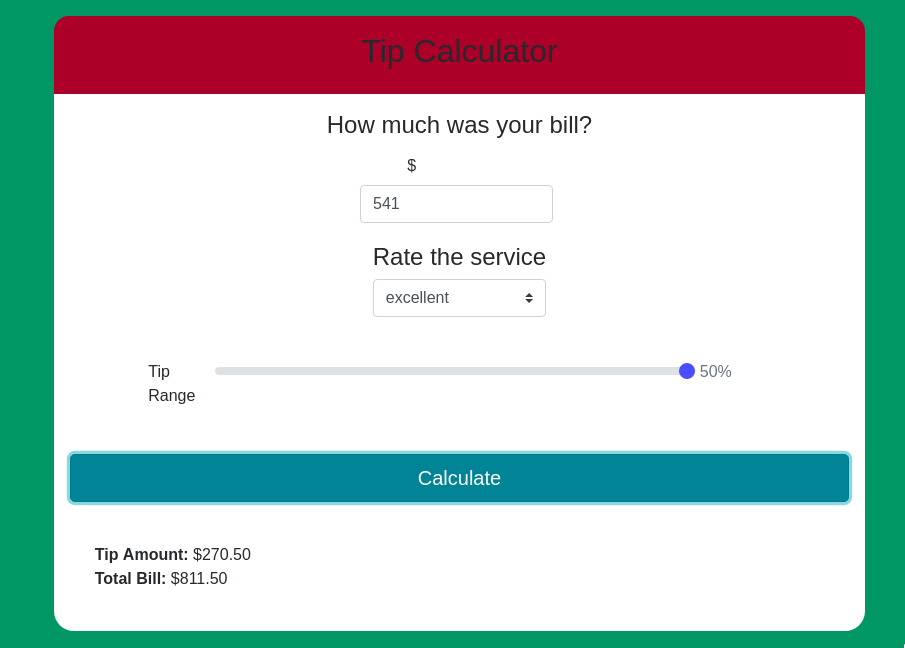
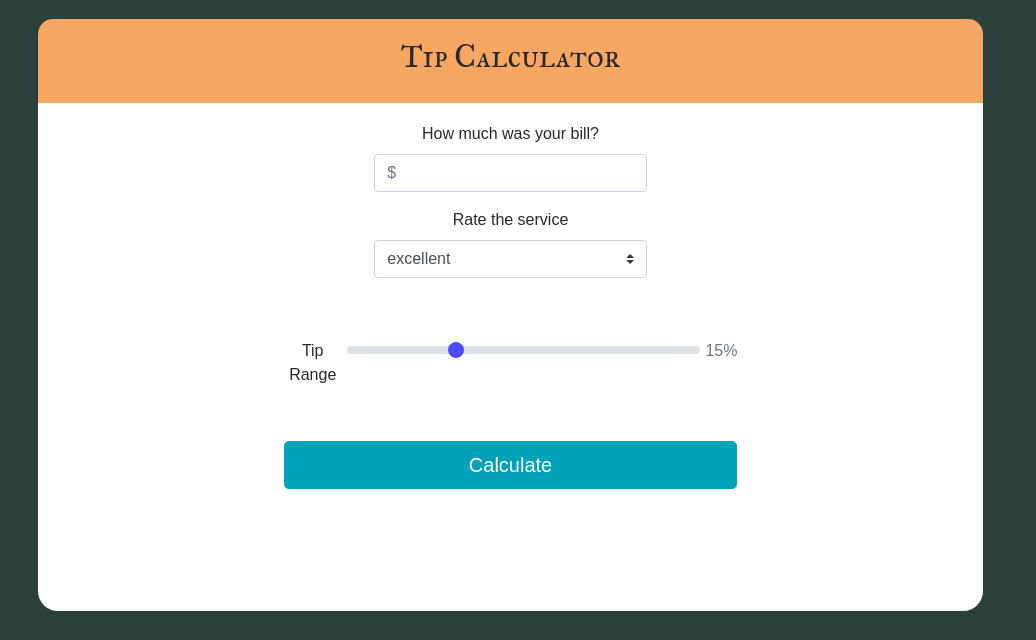
add responsiveness

diff --git a/index.html b/index.html
@@ -20,27 +20,20 @@
           </section>
           <section id="inputs">
                 <form>
-                    <div class="form-row row">
-                        <h4>How much was your bill?</h4>
-                    </div>
-                    <div class="form-group row">
-                        <label for="billAmount" class="col-sm-2 col-form-label">$</label>
-                        <div class="col-sm-10">
-                            <input type="number" class="form-control" placeholder="bill amount" id="billAmount" style="width:30%">
-                        </div>
+                    <div class="form-group col-auto">
+                        <label for="billAmount">How much was your bill?</label>
+                        <input type="number" class="form-control" placeholder="$" id="billAmount">
                     </div>
                 </form>
                 <form>
-                    <div class="form-row align-items-center">
-                        <div class="col-auto my-1">
-                            <h4>Rate the service</h4>
-                            <select class="custom-select mr-sm-2" id="rating">
-                                <option id="myOption" value="4">excellent</option>
-                                <option id="myOption" value="3">good</option>
-                                <option id="myOption" value="2">could be better</option>
-                                <option id="myOption" value="1">poor</option>
-                            </select>
-                        </div>
+                    <div class="form-group col-auto">
+                        <label for="rating">Rate the service</label>
+                        <select class="custom-select mr-sm-2" id="rating">
+                            <option id="myOption" value="4">excellent</option>
+                            <option id="myOption" value="3">good</option>
+                            <option id="myOption" value="2">could be better</option>
+                            <option id="myOption" value="1">poor</option>
+                        </select>
                     </div>
                 </form>
                 <form>
@@ -50,7 +43,9 @@
                     <span class="text-muted" id="percentOut">15%</span>
                 </div>
                 </form>
-                <button type="button" class="btn btn-info btn-lg btn-block" id="calculate">Calculate</button>
+                <div class="button">
+                    <button type="button" class="btn btn-info btn-lg" id="calculate">Calculate</button>
+                </div>
           </section>
           <section id="result">
             

diff --git a/index.css b/index.css
@@ -1,12 +1,13 @@
+@import url('https://fonts.googleapis.com/css?family=IM+Fell+Great+Primer+SC&display=swap');
 body{
     margin: 0;
     padding: 0;
     width: 100%;
-    background-color: rgb(35, 142, 101);
+    background-color: rgb(41, 61, 55);
 }
 .container{
-    margin: 2% 10% 10% 20%;
-    width: 60%;
+    margin: 2% 10% 10% 17%;
+    width: 70%;
     background-color: white;
     border-radius: 20px;
     padding: 0;
@@ -14,7 +15,8 @@ body{
 #heading{
     padding: 2%;
     border-radius: 15px 15px 0 0;
-    background-color: brown;
+    background-color: rgb(243, 168, 106);
+    font-family: 'IM Fell Great Primer SC', serif;
 }
 #inputs{
     padding: 2%;
@@ -22,22 +24,25 @@ body{
 }
 
 .form-group{
-    justify-content: center;
+    align-items: center;
+    padding: 0 35% 0 35%;
 }
-.form-row{
-    justify-content: center;
-}
-.col-sm-10{
-    margin-left: 55%;
-
+form{
+    text-align: center;
 }
 .range{
-    margin: 5% 0 5% 10%;
-    width: 75%;
+    margin: 5% 0 5% 0;
+    width: 50%;
 }
 .range input{
    padding: 5px;
 }
+.button{
+    text-align: center;
+}
+.btn{
+    width: 50%;
+}
 #result{
-padding: 3% 0 5% 5%;
+padding: 4% 0 7% 5%;
 }

diff --git a/README.md b/README.md
@@ -1,6 +1,6 @@
 # Tip-Calculator
 Simple tip calculator page with HTML  BOOTSTRAP Javascript
-![alt text](https://github.com/Shimele/Tip-Calculator/blob/master/tip-calc.png)
+![alt text]()
 
 ## Live demo
 
